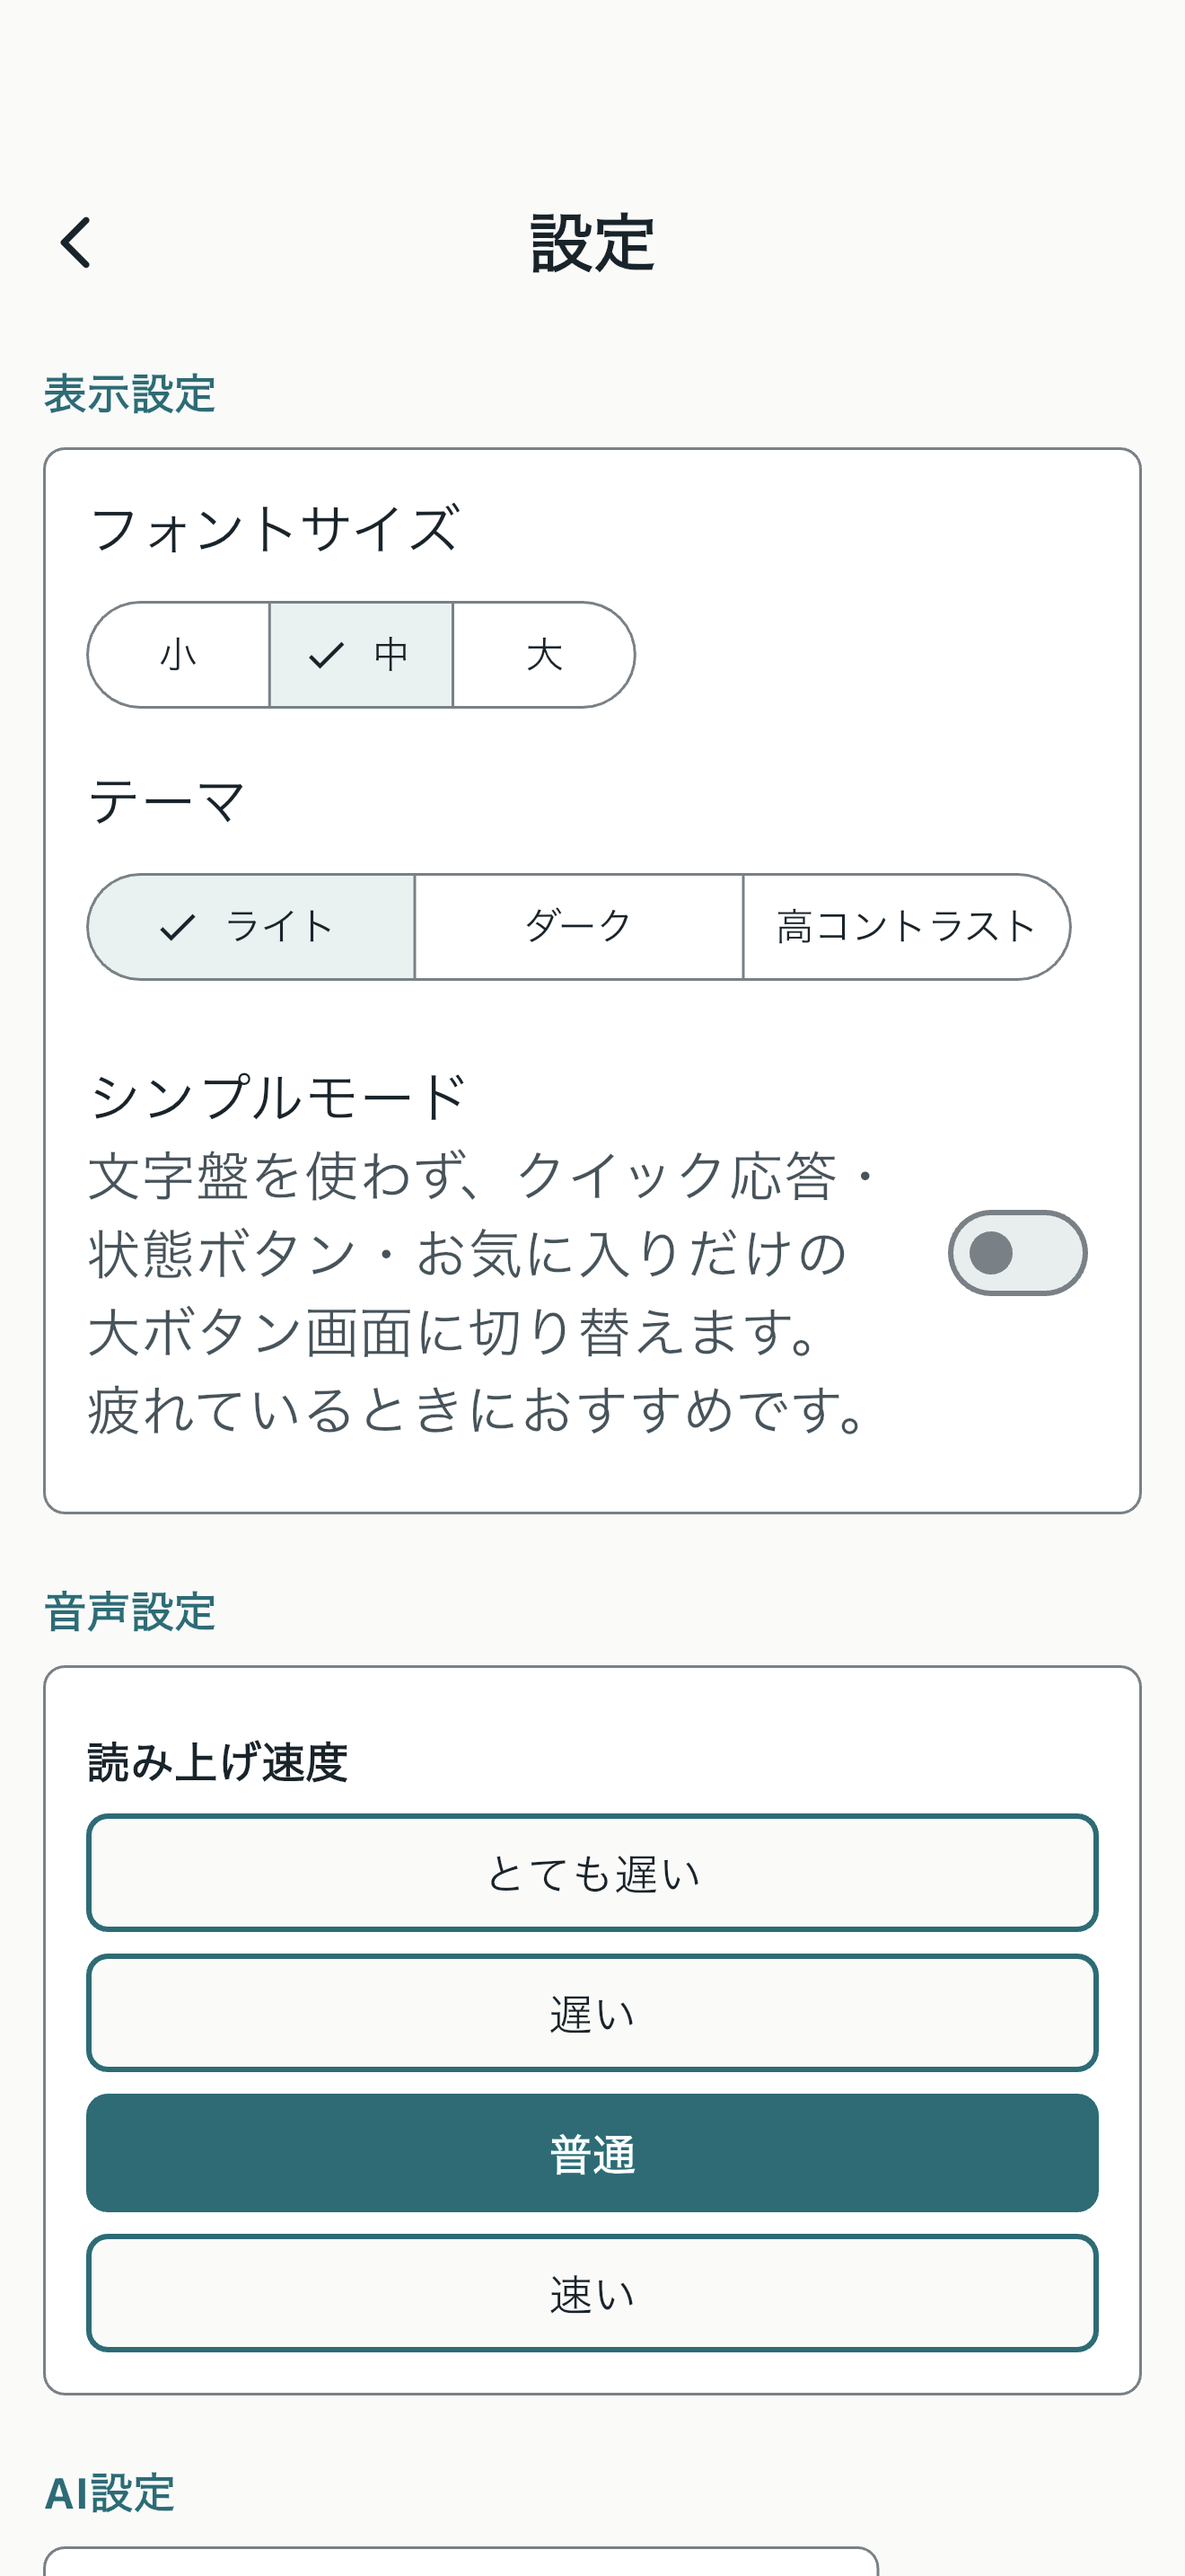
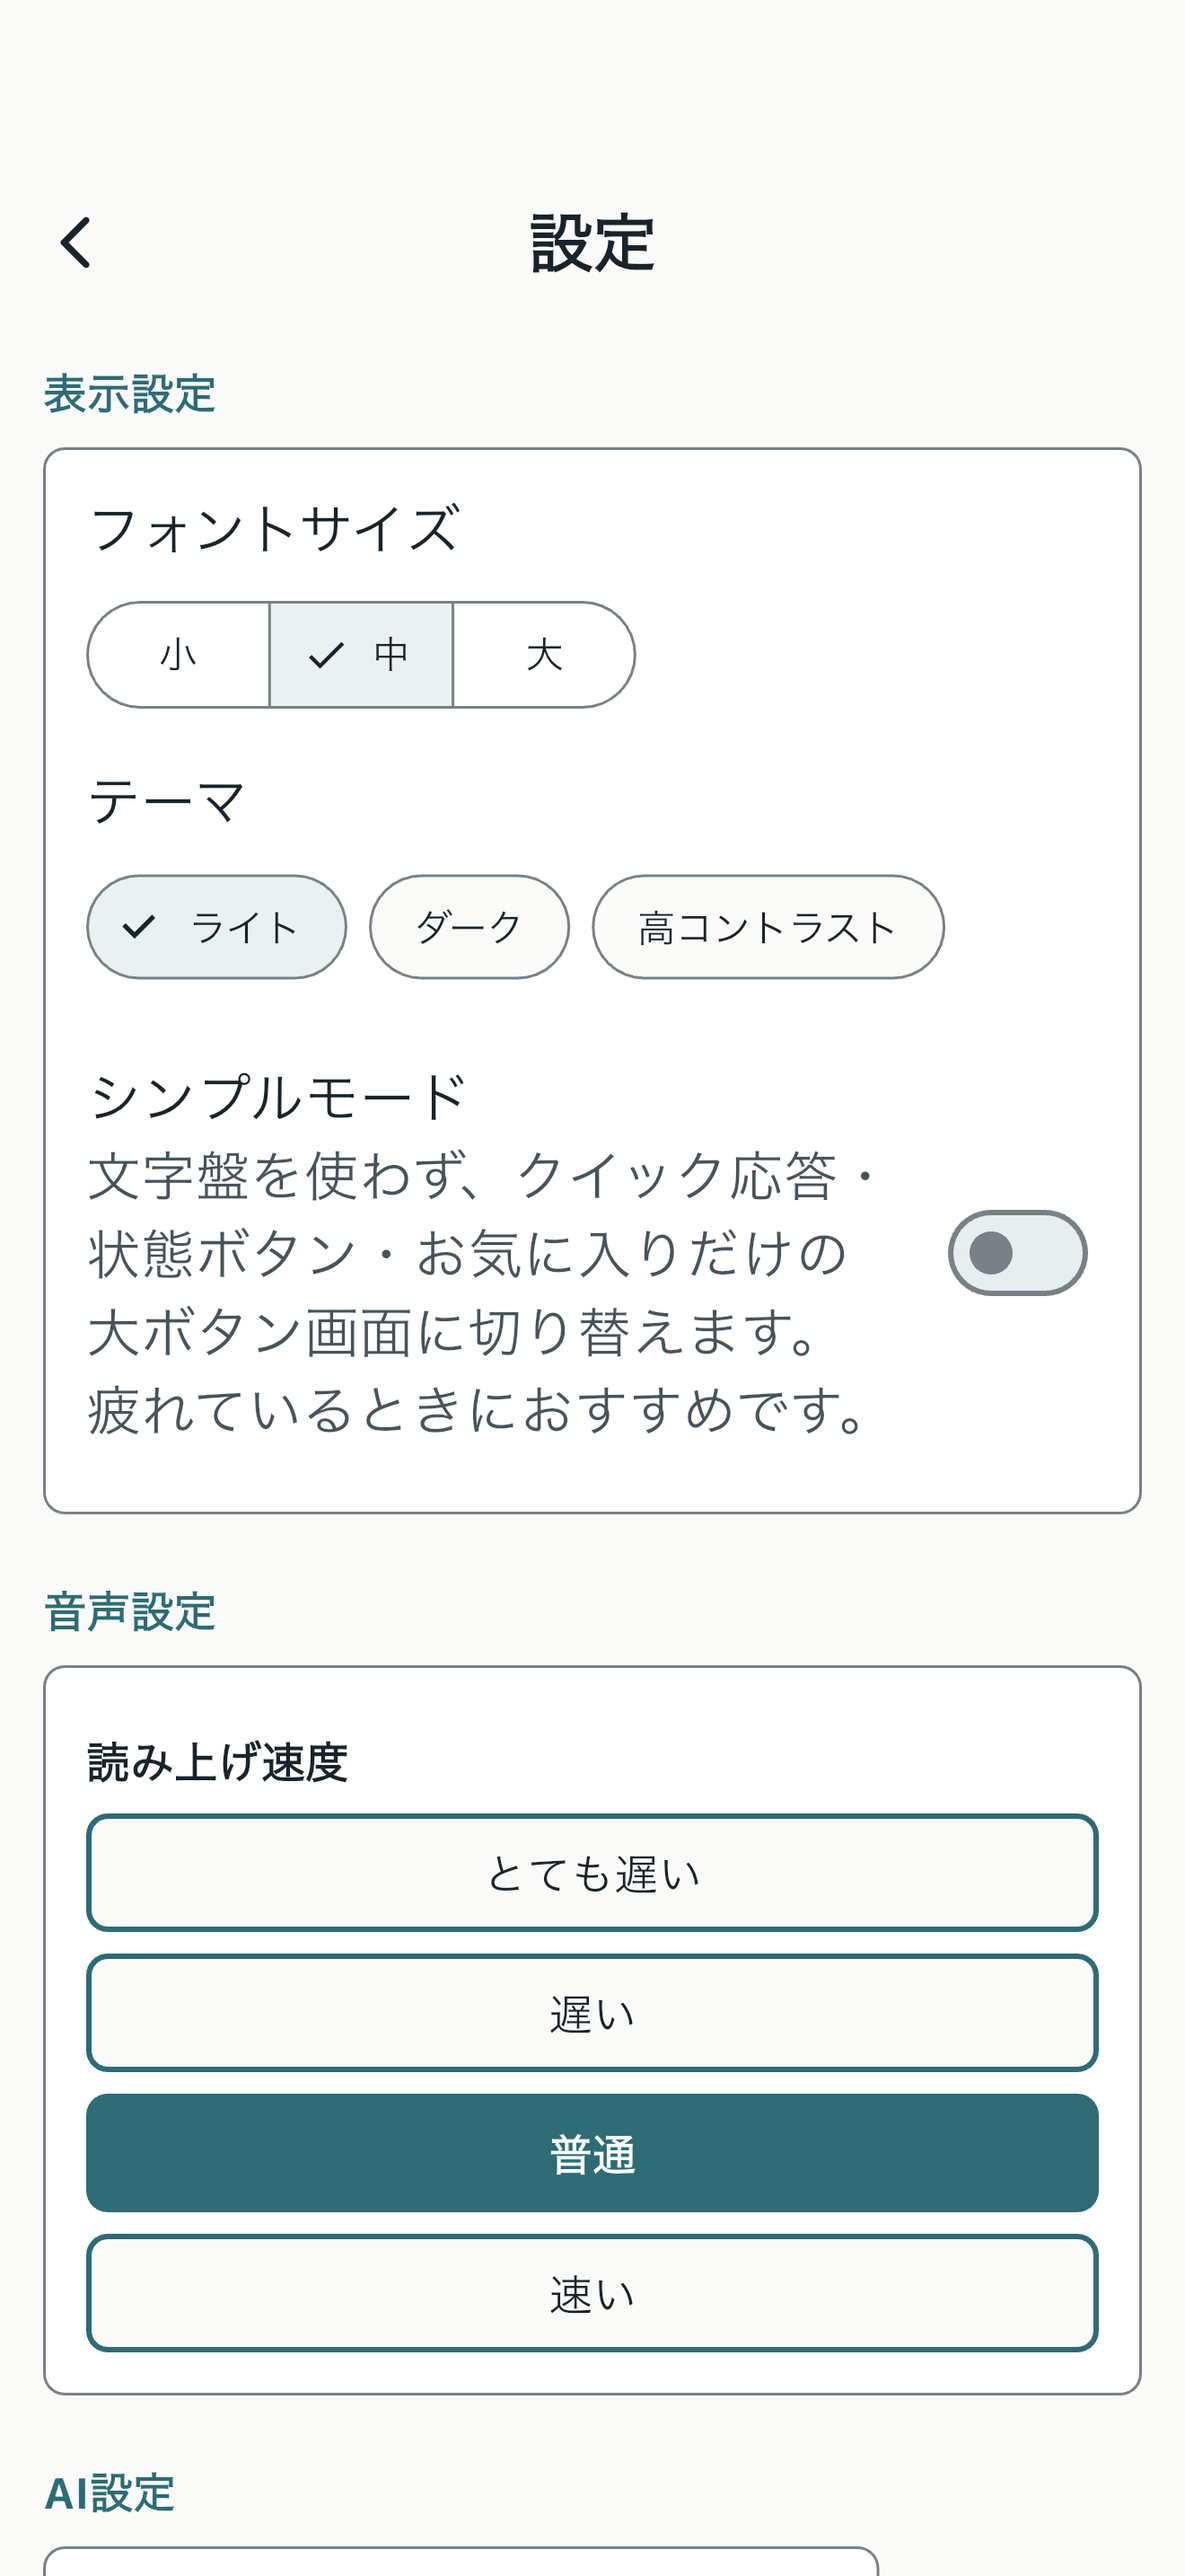
fix: 電話の幅でテーマの「高コントラスト」が語の途中で折り返さないようにする

diff --git a/frontend/kotonoha_app/lib/features/settings/presentation/widgets/theme_settings_widget.dart b/frontend/kotonoha_app/lib/features/settings/presentation/widgets/theme_settings_widget.dart
@@ -36,31 +36,42 @@ class ThemeSettingsWidget extends ConsumerWidget {
       error: (error, stack) => Text('エラー: $error'),
       data: (settings) {
         final currentTheme = settings.theme;
+        final scheme = Theme.of(context).colorScheme;
 
         return Column(
           crossAxisAlignment: CrossAxisAlignment.start,
           children: [
             const Text('テーマ'),
             const SizedBox(height: 8),
-            SegmentedButton<AppTheme>(
-              // AA対応: デフォルト高さ約40pxを44px以上に拡張（タップターゲット要件）。
-              style: SegmentedButton.styleFrom(
-                minimumSize: const Size(0, 44),
-              ),
-              segments: AppTheme.values.map((theme) {
-                return ButtonSegment<AppTheme>(
-                  value: theme,
+            // SegmentedButton は幅を等分するので、電話の幅では「高コントラスト」が
+            // 語の途中で折り返す。チップは名前の幅で並び、収まらなければ次の行へ送る。
+            Wrap(
+              spacing: 8,
+              runSpacing: 8,
+              children: AppTheme.values.map((theme) {
+                final selected = theme == currentTheme;
+                // 上の「フォントサイズ」（SegmentedButton）と同じ配色にする。
+                // アプリのチップのテーマは枠も選択色も無く、選択中が ✓ だけになるため
+                return ChoiceChip(
                   label: Text(_getShortDisplayName(theme)),
+                  selected: selected,
+                  shape: const StadiumBorder(),
+                  side: BorderSide(color: scheme.outline),
+                  backgroundColor: scheme.surface,
+                  selectedColor: scheme.secondaryContainer,
+                  checkmarkColor: scheme.onSecondaryContainer,
+                  labelStyle: TextStyle(
+                    color: selected
+                        ? scheme.onSecondaryContainer
+                        : scheme.onSurface,
+                  ),
+                  // タップ領域は 48px 四方（padded）。見た目の高さより広く取る
+                  materialTapTargetSize: MaterialTapTargetSize.padded,
+                  onSelected: (_) {
+                    ref.read(settingsNotifierProvider.notifier).setTheme(theme);
+                  },
                 );
               }).toList(),
-              selected: {currentTheme},
-              onSelectionChanged: (Set<AppTheme> newSelection) {
-                if (newSelection.isNotEmpty) {
-                  ref.read(settingsNotifierProvider.notifier).setTheme(
-                        newSelection.first,
-                      );
-                }
-              },
             ),
           ],
         );

diff --git a/frontend/kotonoha_app/test/features/settings/presentation/widgets/theme_settings_widget_test.dart b/frontend/kotonoha_app/test/features/settings/presentation/widgets/theme_settings_widget_test.dart
@@ -1,0 +1,57 @@
+/// テーマ設定ウィジェットのテスト
+///
+/// 電話の幅でも、選択肢の名前が語の途中で折り返さない（「高コントラス／ト」にならない）。
+/// 折り返しは、描いた幅が 1 行で描くのに要る幅（intrinsic width）より狭いかで見る。
+/// 固定の箱の中の Text の大きさは、折り返していても変わらないので使えない。
+library;
+
+import 'package:flutter/material.dart';
+import 'package:flutter/rendering.dart';
+import 'package:flutter_riverpod/flutter_riverpod.dart';
+import 'package:flutter_test/flutter_test.dart';
+import 'package:kotonoha_app/core/themes/theme_provider.dart';
+import 'package:kotonoha_app/features/settings/presentation/widgets/theme_settings_widget.dart';
+import 'package:shared_preferences/shared_preferences.dart';
+
+/// 小さめの電話で、設定画面のカードの内側に使える幅（論理ピクセル）
+const _phoneCardWidth = 300.0;
+
+Future<void> _pump(WidgetTester tester, String fontSize) async {
+  SharedPreferences.setMockInitialValues({'fontSize': fontSize});
+  await tester.pumpWidget(
+    ProviderScope(
+      child: Consumer(
+        builder: (context, ref, _) => MaterialApp(
+          theme: ref.watch(currentThemeProvider),
+          home: const Scaffold(
+            body: Center(
+              child: SizedBox(
+                width: _phoneCardWidth,
+                child: ThemeSettingsWidget(),
+              ),
+            ),
+          ),
+        ),
+      ),
+    ),
+  );
+  await tester.pumpAndSettle();
+}
+
+void _expectSingleLine(WidgetTester tester, String label) {
+  final paragraph = tester.renderObject<RenderParagraph>(find.text(label));
+  final oneLine = paragraph.getMaxIntrinsicWidth(double.infinity);
+  expect(paragraph.size.width, greaterThanOrEqualTo(oneLine - 0.5),
+      reason: '「$label」が折り返している（幅 ${paragraph.size.width}、1 行に要る幅 $oneLine）');
+}
+
+void main() {
+  for (final fontSize in ['medium', 'large']) {
+    testWidgets('電話の幅（文字サイズ $fontSize）でも選択肢の名前が折り返さない', (tester) async {
+      await _pump(tester, fontSize);
+      for (final label in ['ライト', 'ダーク', '高コントラスト']) {
+        _expectSingleLine(tester, label);
+      }
+    });
+  }
+}
